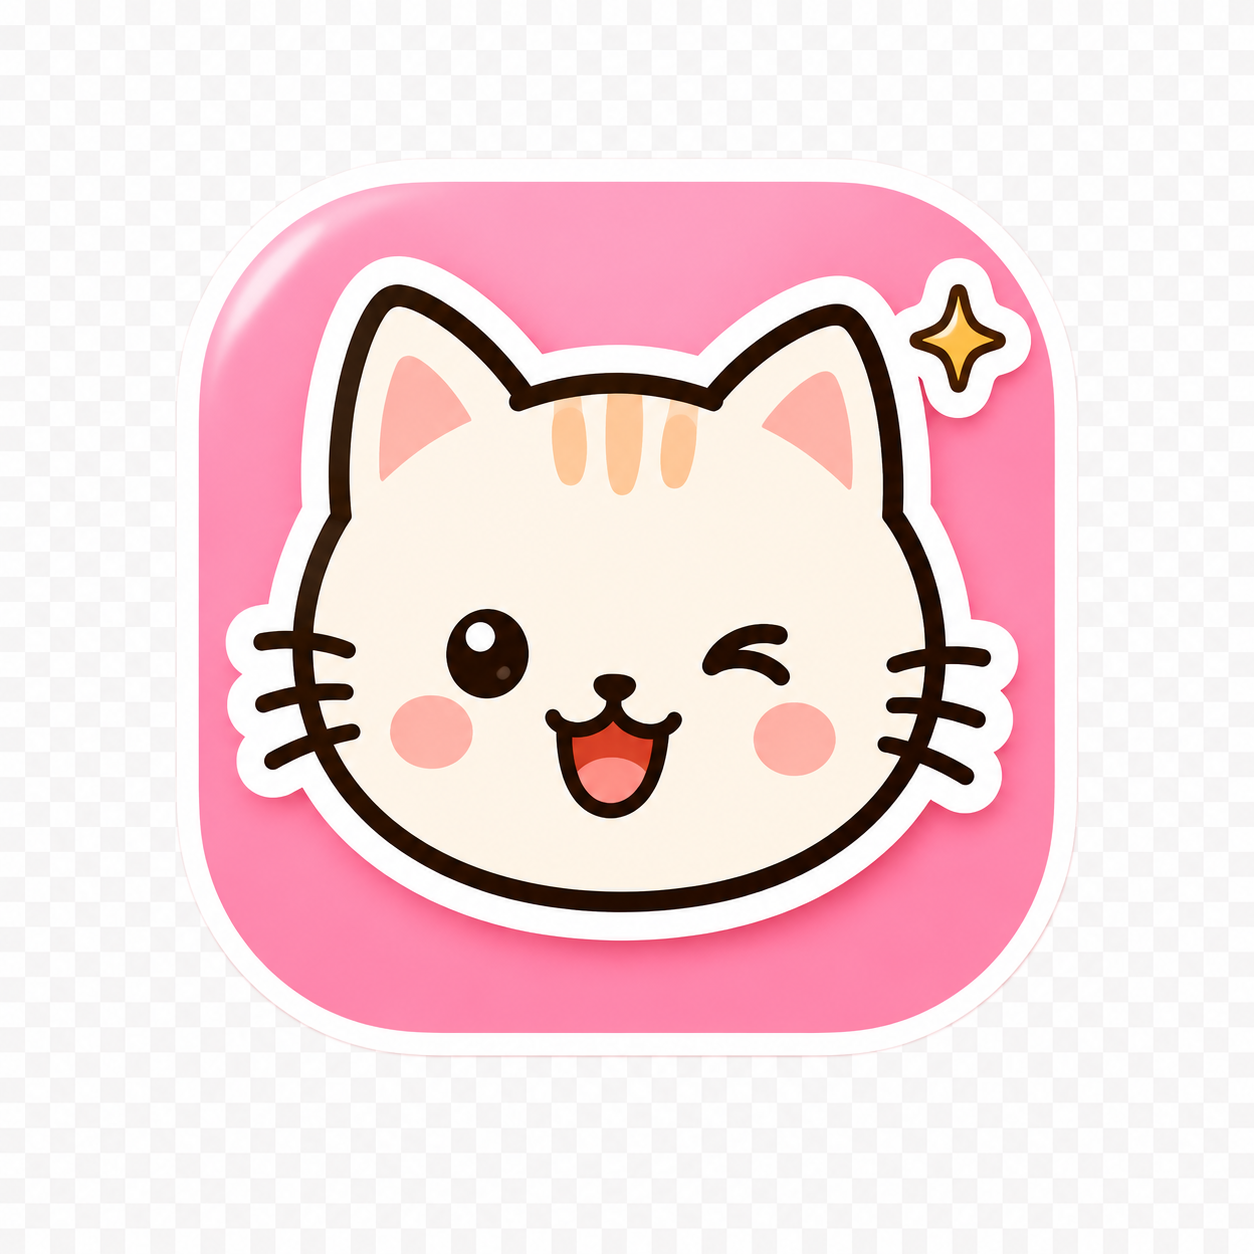
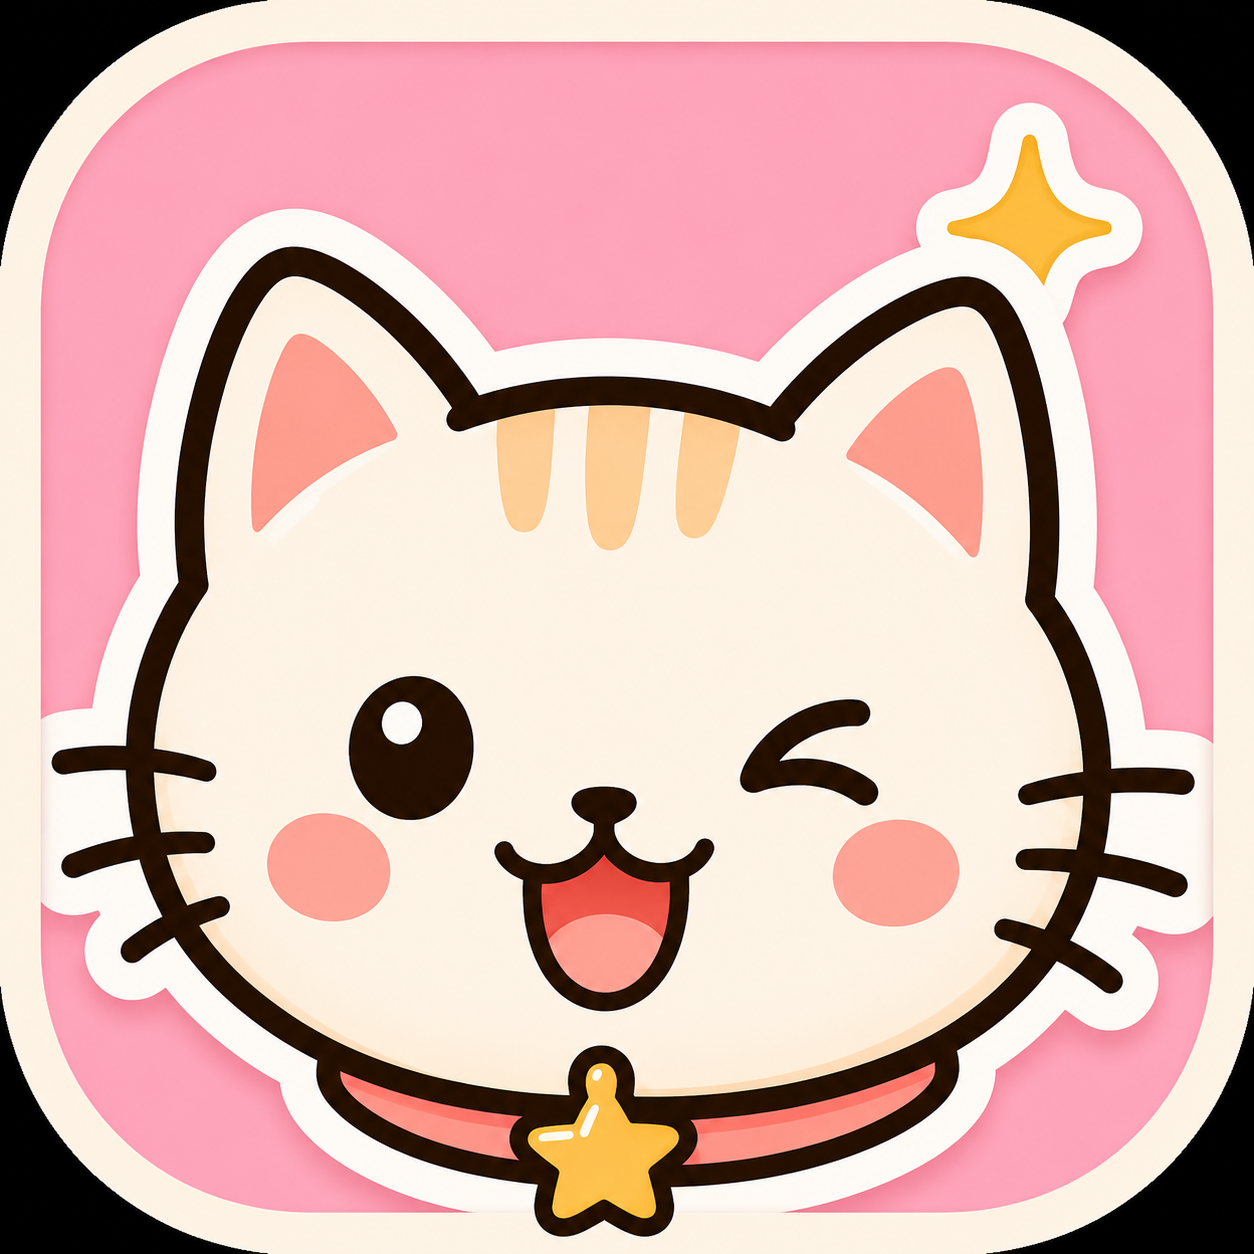
Polara v0.8.4 - rapiin Trading Card (buang garis grid, haluskan holo)

diff --git a/src/modules/templates/trading-card-id.single.html b/src/modules/templates/trading-card-id.single.html
@@ -105,13 +105,11 @@
       inset: 0;
       z-index: 0;
       pointer-events: none;
-      opacity: 0.44;
+      opacity: 0.32;
       background-image:
-        linear-gradient(rgba(255,255,255,0.06) 1px, transparent 1px),
-        linear-gradient(90deg, rgba(255,255,255,0.06) 1px, transparent 1px),
-        radial-gradient(circle, rgba(255,255,255,0.24) 0 1px, transparent 1.4px);
-      background-size: 54px 54px, 54px 54px, 32px 32px;
-      background-position: 0 0, 0 0, 10px 12px;
+        radial-gradient(circle, rgba(255,255,255,0.22) 0 1px, transparent 1.6px);
+      background-size: 36px 36px;
+      background-position: 10px 12px;
       mix-blend-mode: screen;
     }
 
@@ -124,14 +122,14 @@
       background:
         linear-gradient(
           120deg,
-          transparent 0 28%,
-          rgba(255,255,255,0.14) 36%,
-          rgba(86,216,255,0.12) 42%,
-          rgba(255,103,179,0.10) 48%,
-          transparent 58% 100%
+          transparent 0 20%,
+          rgba(255,255,255,0.10) 38%,
+          rgba(86,216,255,0.09) 50%,
+          rgba(255,103,179,0.08) 62%,
+          transparent 80% 100%
         );
       transform: rotate(6deg);
-      opacity: 0.72;
+      opacity: 0.6;
       mix-blend-mode: screen;
     }
 
@@ -189,11 +187,10 @@
       z-index: 0;
       pointer-events: none;
       background-image:
-        radial-gradient(circle, rgba(29,32,48,0.09) 0 1.5px, transparent 2px),
-        linear-gradient(135deg, rgba(255,255,255,0.28) 0 1px, transparent 1px);
-      background-size: 26px 26px, 34px 34px;
-      background-position: 6px 8px, 0 0;
-      opacity: 0.42;
+        radial-gradient(circle, rgba(29,32,48,0.07) 0 1.5px, transparent 2px);
+      background-size: 28px 28px;
+      background-position: 6px 8px;
+      opacity: 0.3;
     }
 
     .top-band {

diff --git a/CHANGELOG.md b/CHANGELOG.md
@@ -15,6 +15,10 @@ Lihat aturan lengkap di `../KONVENSI-VERSI.md`.
 - Placed sticker cuma bisa digeser pakai pointer (belum keyboard) — WCAG 2.1.1 minor; penempatan & hapus udah keyboard-OK.
 - Catatan code-review (low, PRE-EXISTING bukan regresi): pas `exportPng`, console kebanjiran `SecurityError: cssRules` dari `html-to-image` yang coba baca stylesheet cross-origin (Google Fonts). NON-FATAL — export tetap hasilin PNG benar. Kalau mau bersihin: embed font sendiri / pakai opsi `skipFonts`+`fontEmbedCSS` di html-to-image (task terpisah).
 
+## [0.8.4] - 2026-07-05
+### Changed — Trading Card dirapiin (#3)
+- Buang **pola garis grid** yang bikin "garis-garis nggak rapi" (di `.ph-canvas::before` + `.card-inner::before`) → sekarang cuma starfield titik halus, nggak ada garis kotak-kotak. Streak holografik (`::after`) dihaluskan (stop gradient lebih lebar, opacity 0.72→0.6) biar lebih smooth. Verified render + export.
+
 ## [0.8.3] - 2026-07-05
 ### Changed — kembangin frame batch 2 (#3)
 - **Poca Purikura di-declutter**: buang semua hiasan bawaan (3 blob, 3 mascot Poca, sparkle/heart/paw, 3 kata-stiker, watermark img). Sekarang cuma frame + slot bersih, biar user hias sendiri pakai tray. `.ph-brand` dibikin keliatan (tadinya `font-size:0`, pakai watermark img yang udah dibuang). Verified: 0 dekorasi bawaan.